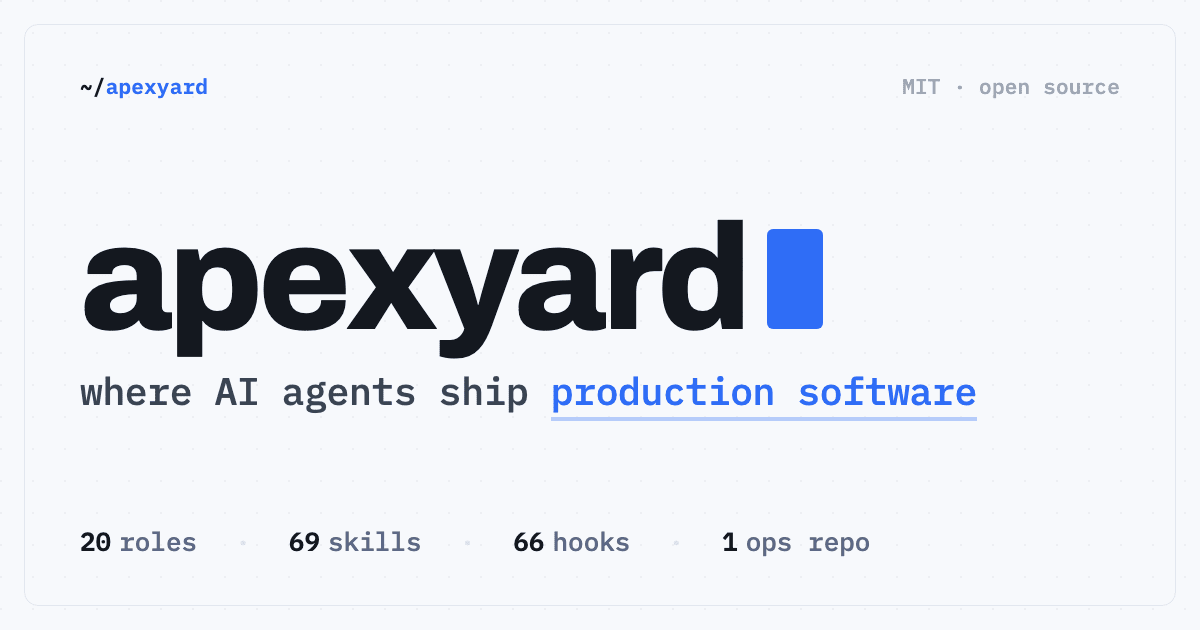
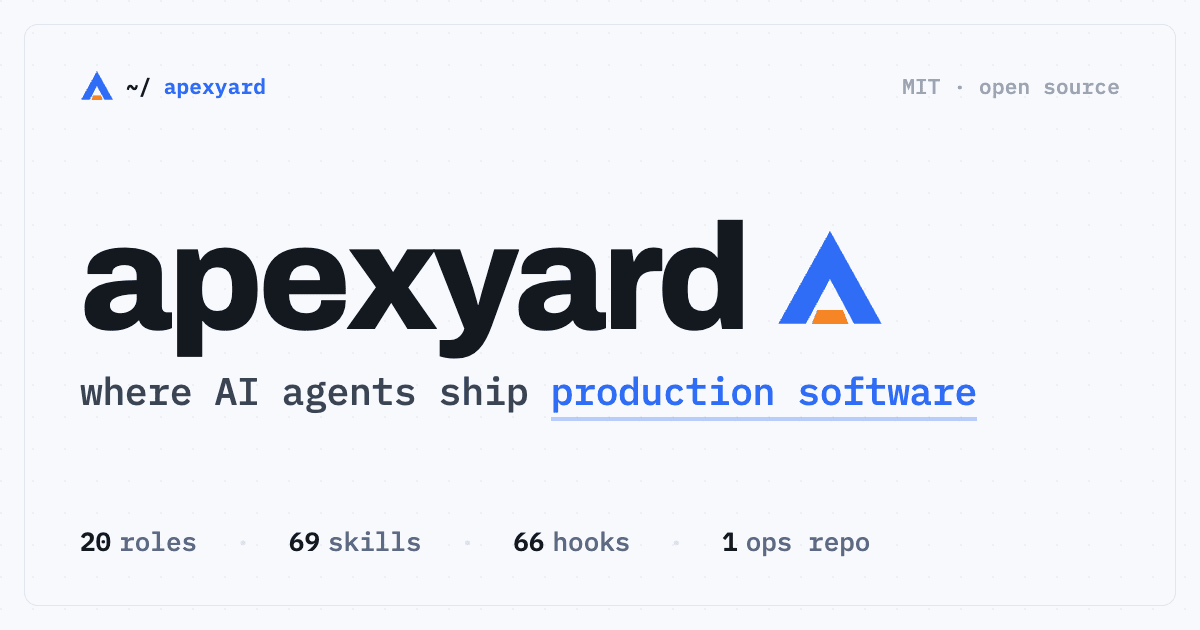
fix(#144): add the mark to the OG cards, keep gate-card text readable while it animates, enlarge the game header mark
Refs #144. OG cards re-rendered from framework tag v5.10.0 (same counts: 20 roles, 69 skills, 66 hooks).

Changed region(s): [[0.6167, 0.3619, 0.74, 0.5429], [0.0617, 0.1206, 0.2467, 0.181]]

diff --git a/og/templates/index.html b/og/templates/index.html
@@ -21,14 +21,8 @@
     align-items: center;
     gap: 6px;
   }
-  .wordmark .block {
-    display: inline-block;
-    width: 56px;
-    height: 100px;
-    background: var(--accent);
-    border-radius: 6px;
-    margin-left: 14px;
-  }
+  .wordmark .bigmark { display: inline-block; width: 110px; height: 110px; margin-left: 22px; }
+  .wordmark .bigmark svg { width: 100%; height: 100%; display: block; }
   .tagline {
     font-family: var(--font-mono);
     font-size: 38px;
@@ -63,12 +57,12 @@
 <div class="card">
   <div class="pad">
     <div class="eyebrow">
-      <span class="brand">~/<span class="ay">apexyard</span></span>
+      <span class="brand">{{MARK}}~/<span class="ay">apexyard</span></span>
       <span class="right">MIT · open source</span>
     </div>
 
     <div class="hero">
-      <div class="wordmark">apexyard<span class="block"></span></div>
+      <div class="wordmark">apexyard<span class="bigmark">{{MARK}}</span></div>
       <div class="tagline">where AI agents ship <u>production software</u></div>
     </div>
 

diff --git a/site.css b/site.css
@@ -1723,7 +1723,7 @@ main#main.nf { padding: 3rem var(--gutter); }
 @keyframes gc-floor { 0% { opacity: 0; } 35% { opacity: 1; filter: brightness(1.5); } 100% { opacity: 1; filter: none; } }
 @keyframes gc-rise { from { opacity: 0; transform: translateY(6px); } to { opacity: 1; transform: none; } }
 .is-playing { --gc-t0: .6s; --gc-step: .65s; }
-.is-playing .gc-row { animation: gc-row .35s ease-out both; animation-delay: calc(var(--gc-t0) + var(--i) * var(--gc-step)); }
+.is-playing .gc-av img { animation: gc-row .35s ease-out both; animation-delay: calc(var(--gc-t0) + var(--i) * var(--gc-step)); }
 .is-playing .gc-av::after { animation: gc-ring 1s ease-out both; animation-delay: calc(var(--gc-t0) + var(--i) * var(--gc-step)); }
 .is-playing .gc-state { animation: gc-state .3s cubic-bezier(.2, .8, .2, 1.2) both; animation-delay: calc(var(--gc-t0) + var(--i) * var(--gc-step) + .25s); }
 .is-playing .hero-crew__floor i:not(.idle) { animation: gc-floor .7s ease-out both; animation-delay: calc(var(--gc-t0) + var(--i) * var(--gc-step)); }

diff --git a/og/render.js b/og/render.js
@@ -22,8 +22,12 @@ const counts = {
   HOOKS: process.env.HOOKS || '0',
 };
 
+// The mark is the shared brand SVG (no text inside it). One source: ../brand/apexyard-mark.svg.
+const MARK = fs.readFileSync(path.join(__dirname, '..', 'brand', 'apexyard-mark.svg'), 'utf8')
+  .replace(/ role="img" aria-label="ApexYard"/, ' aria-hidden="true"').trim();
+
 (async () => {
-  const browser = await chromium.launch();
+  const browser = await chromium.launch(process.env.OG_CHROME_CHANNEL ? { channel: process.env.OG_CHROME_CHANNEL } : {});
   const page = await browser.newPage({
     viewport: { width: 1200, height: 630 },
     deviceScaleFactor: 1,
@@ -34,6 +38,7 @@ const counts = {
   for (const card of CARDS) {
     const tplPath = path.join(TPL_DIR, `${card}.html`);
     let html = fs.readFileSync(tplPath, 'utf8');
+    html = html.replaceAll('{{MARK}}', MARK);
     for (const [k, v] of Object.entries(counts)) {
       html = html.replaceAll(`{{${k}}}`, v);
     }

diff --git a/game.html b/game.html
@@ -901,7 +901,7 @@
 <div id="app">
   <header>
     <a class="logo" href="/" style="text-decoration:none;color:inherit;display:inline-flex;align-items:center;gap:9px;">
-      <img src="/brand/apexyard-mark.svg" width="28" height="28" alt="" style="display:block;">
+      <img src="/brand/apexyard-mark.svg" width="32" height="32" alt="" style="display:block;">
       <span>ApexYard <span style="color:var(--faint);font-weight:400;">·</span> <em>You vs. the LLM</em></span>
     </a>
     <div class="progress" id="progress"></div>

diff --git a/og/templates/_base.css b/og/templates/_base.css
@@ -80,7 +80,8 @@ html, body { width: 1200px; height: 630px; }
   color: var(--muted);
   letter-spacing: 0.01em;
 }
-.eyebrow .brand { color: var(--ink); font-weight: 600; }
+.eyebrow .brand { color: var(--ink); font-weight: 600; display: inline-flex; align-items: center; gap: 12px; }
+.eyebrow .brand svg { width: 34px; height: 34px; flex: none; margin-block: -8px; }
 .eyebrow .brand .ay { color: var(--accent); }
 .eyebrow .right { color: var(--faint); }
 

diff --git a/og/templates/architecture.html b/og/templates/architecture.html
@@ -96,7 +96,7 @@
 <div class="card">
   <div class="pad">
     <div class="eyebrow">
-      <span class="brand">~/<span class="ay">apexyard</span> — architecture</span>
+      <span class="brand">{{MARK}}~/<span class="ay">apexyard</span> — architecture</span>
       <span class="right">what runs where</span>
     </div>
 

diff --git a/og/templates/game.html b/og/templates/game.html
@@ -81,7 +81,7 @@
 <div class="card">
   <div class="pad">
     <div class="eyebrow">
-      <span class="brand">~/<span class="ay">apexyard</span> — game</span>
+      <span class="brand">{{MARK}}~/<span class="ay">apexyard</span> — game</span>
       <span class="right">11 rounds · ~15 min</span>
     </div>
 

diff --git a/og/templates/skills.html b/og/templates/skills.html
@@ -65,7 +65,7 @@
 <div class="card">
   <div class="pad">
     <div class="eyebrow">
-      <span class="brand">~/<span class="ay">apexyard</span> — skills</span>
+      <span class="brand">{{MARK}}~/<span class="ay">apexyard</span> — skills</span>
       <span class="right">slash commands</span>
     </div>
 
